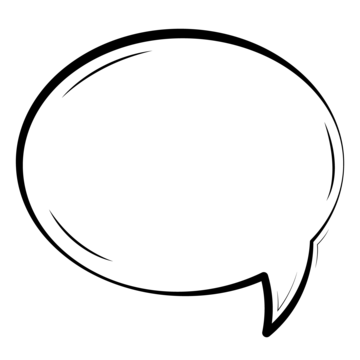
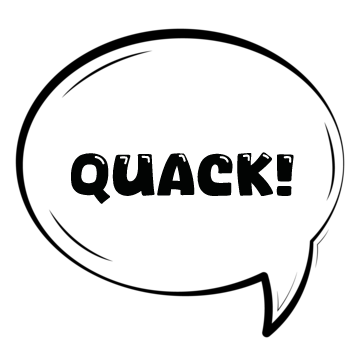
readjusted positions

Changed region(s): [[0.1833, 0.4278, 0.825, 0.5806]]

diff --git a/style.css b/style.css
@@ -1,3 +1,7 @@
+body{
+    text-align: center;
+}
+
 /*
 =================================================
 SEARCH
@@ -10,95 +14,84 @@ SEARCH
 
 }
 
-.search-container {
-    position: relative;
-}
-
-.search-bar-container{
+.search-bar-container {
     display: flex;
 }
 
-form {
-    width: 100%;
-    max-width: 600px;
-    margin: 0 auto;
-    margin-top: 550px;
-    background-color: aqua;
+form{
+    width:100%;
+    max-width:600px;
+    margin:0 auto;
+ }
+input{
+    width:100%;
+    font-size:32px;
+    margin:0px 0;
+    border:none;
+    padding:10px;
+    outline:none;
+    display:inline-block;
 }
-
-input {
-    width: 100%;
-    font-size: 32px;
-    margin: 0px 0;
-    border: none;
-    padding: 10px;
-    outline: none;
-    display: inline-block;
+.search-bar{
+    width:80%;
+    border:2px solid #000;
 }
-
-.search-bar {
-    width: 80%;
-    border: 2px solid #000 !important;
+.submit-button{
+   width:15%;
+   background:#000;
+   color:#FFF;
 }
-
-.submit-button {
-    background: #000;
-    color: #FFF;
-    width: 16%;
-}
+ 
 
 html {
     background-color: #8de6e4;
 }
 
+.duck-image{
+    min-height:500px;
+}
+
 .duck {
-    position: relative; 
-    top: -425px; 
-    left: 51%; 
     transform: translateX(-50%) scaleX(-1); 
     z-index: 1000;
+    position:relative;
+    top:150px;
+    left:140px;
 }
 
 
-.title {
-    font-family: nicolastregular, sans-serif;
-    position: absolute;
-    z-index: 1;
-    top: 20%; 
-    left: 57.2%; 
-    transform: rotate(13deg) translate(-50%, -50%); 
-    margin: 0;
-}
 
 .bubble {
     position: absolute;
     top: 15%;
-    left: 53%;
+    left: 54%;
     transform: rotate(20deg);
 }
 
-
+/*
+=================================================
+BOOKMARKS
+=================================================
+*/
 .bookmarks a{
     text-decoration: none;
  }
-.bookmarks{
-    padding:0px;
+ .bookmarks{
+    padding:25px;
     clear:both;
-    position: relative; 
-    left: 28.5%;
-    top: -280px;
-  
-}
-.bookmarks i{
+ }
+ .bookmarks i{
     font-size:42px;
     margin:0 40px;
     color:#000000;
     transition:.15s;
-}
-.bookmarks i:hover{
+    vertical-align: top;
+ }
+ .bookmarks i:hover{
     font-size:72px;
     position:relative;
-}
+ }
+ 
 
 #note{
     width:250px;

diff --git a/index.html b/index.html
@@ -18,6 +18,12 @@
             !function(d,s,id){var js,fjs=d.getElementsByTagName(s)[0];if(!d.getElementById(id)){js=d.createElement(s);js.id=id;js.src='https://weatherwidget.io/js/widget.min.js';fjs.parentNode.insertBefore(js,fjs);}}(document,'script','weatherwidget-io-js');
         </script>
 
+        <!-- DUCK -->
+        <section class="duck-image">
+            <img class="duck" src="img/duck.gif" width="250" height="300"/>
+            <img class="bubble" src="img/bubble.png" width="100" height="100"/> 
+        </section>
+        
         <!-- GOOGLE SEARCH -->
         <div class="search-container">
             <form action="https://google.com/search" method="get" target="_blank">
@@ -28,11 +34,8 @@
                 </div>
             </form>
         </div>
-            
-        <p class="title">Quack!</p>
 
-        <img class="duck" src="img/duck.gif" width="250" height="300"/>
-        <img class="bubble" src="img/bubble.png" width="100" height="100"/>   
+  
 
         <section class="bookmarks">
             <a href="https://spotify.com" target="_blank">
